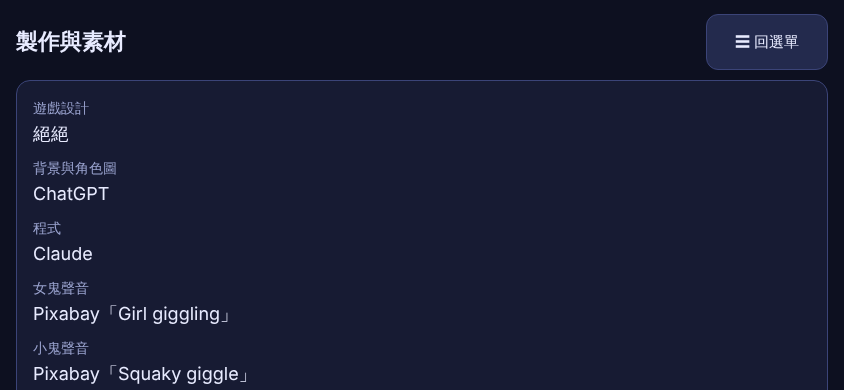
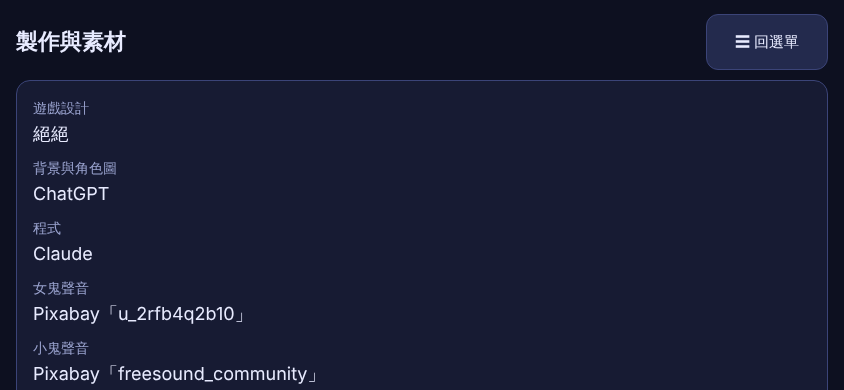
credits: list Pixabay uploaders for the giggles
Claude-Session: https://claude.ai/code/session_01HvGmyWa7LXvU1ABFVyqn8L

Changed region(s): [[0.1232, 0.9231, 0.3697, 0.9846], [0.1232, 0.7692, 0.2773, 0.8308]]

diff --git a/tests/e2e-menu.js b/tests/e2e-menu.js
@@ -136,7 +136,7 @@ const T = {
     text: document.body.textContent,
     noHScroll: document.documentElement.scrollWidth <= window.innerWidth,
   }));
-  ok(JSON.stringify(cr.rows) === JSON.stringify(['遊戲設計：絕絕', '背景與角色圖：ChatGPT', '程式：Claude', '女鬼聲音：Pixabay「Girl giggling」', '小鬼聲音：Pixabay「Squaky giggle」', '其他音效：程式合成']), '製作與素材：文字照定稿', cr.rows);
+  ok(JSON.stringify(cr.rows) === JSON.stringify(['遊戲設計：絕絕', '背景與角色圖：ChatGPT', '程式：Claude', '女鬼聲音：Pixabay「u_2rfb4q2b10」', '小鬼聲音：Pixabay「freesound_community」', '其他音效：程式合成']), '製作與素材：文字照定稿', cr.rows);
   ok(JSON.stringify(cr.links) === '["index.html"]', '製作與素材：除了回選單沒有其他連結', cr.links);
   ok(/☰ 回選單/.test(cr.text) && cr.btn >= 44, '製作與素材：「☰ 回選單」≥ 44 px', cr.btn);
   ok(cr.noHScroll, '製作與素材：橫向手機沒有橫向捲動');

diff --git a/prototype/credits.html b/prototype/credits.html
@@ -36,8 +36,8 @@
     <dt>遊戲設計</dt><dd>絕絕</dd>
     <dt>背景與角色圖</dt><dd>ChatGPT</dd>
     <dt>程式</dt><dd>Claude</dd>
-    <dt>女鬼聲音</dt><dd>Pixabay「Girl giggling」</dd>
-    <dt>小鬼聲音</dt><dd>Pixabay「Squaky giggle」</dd>
+    <dt>女鬼聲音</dt><dd>Pixabay「u_2rfb4q2b10」</dd>
+    <dt>小鬼聲音</dt><dd>Pixabay「freesound_community」</dd>
     <dt>其他音效</dt><dd>程式合成</dd>
   </dl>
 </main>

diff --git a/PROJECT.md b/PROJECT.md
@@ -132,7 +132,7 @@
 - **正式美術圖已換上（2026-11-19）**：原圖在 `docs/concepts/古堡外觀.png`、`信件.png`、`圓盤.png`、`雜魚00～08.png`（雜魚09 使用者說不用）。轉成手機用的 webp：`plane-mirror/assets/story-castle.webp`、`story-letter.webp`（信件圖＋圓盤合成，照劇本「圓盤壓在信件上面」）、`story-disc.webp`（對話框小圖）、`shared/art/minion-00～08.webp`（第一關、第二關過關時逃散的小鬼，取代 placeholder）。信上的三句字照舊用 HTML 寫在圖中的信紙上（`story-scene.js` 的 `letterOnArt`）。暫代圖程式保留在 `story-art.js`，圖載不到時才用。
 - **第二關「看凸透鏡」（使用者 2026-11-21）**：①拿掉底下「← 直接看」對照小鬼（鬼裸眼不可見；大小又透露距離），鏡框改成固定撐滿那一欄；②虛像不能標記時寫「成像太遠，無法標記。」（狀態列加「再移動看看。」）；③虛像離透鏡 < 60 cm 時提示「建議標記別處」但**仍可標記**，**只在看透鏡時出現**，看布幕不會；④實像題**維持允許**改看透鏡標記虛像（V1／V4 不變）；⑤虛像題 J、K、L **改短焦距定案**（J 110、K 120、L 170），使用者手機實測 OK；⑥「拉近看」（讓鬼塞滿鏡片）**先不做**；⑦舊的三題虛像題加回來當 **M、N、O**（f 200／220／210，第 4／5／7 格），虛像題共 6 題、全部 15 題；⑧「知道是虛像就猜焦點內的格子」**先不處理**；⑨「看透鏡」時鬼在焦點上或焦點外**照物理畫**：看到清楚、正立的像（像在無限遠或布幕後面），寫「成像太遠，無法標記。」，不再是一團淡光（只有實像題的像落在眼睛前後 25 cm 內才是一團光）。細節見文末「交接點（凸透鏡虛像太小，2026-11-21）」。
 - **第一關地磚貼圖已換上（2026-11-20）**：使用者給的石磚圖存成 `docs/concepts/地磚.png`，遊戲用 `plane-mirror/assets/floor-tile.webp`（512×512）。一格貼一張，用分塊仿射做透視貼圖；直接看、各面鏡子、鏡中鏡各算一次後快取（`app.js` 的 `floorLayer`）。隔一格壓暗（西洋棋盤，鏡中好數格），格線改成磚邊的銅色、細一點。圖載不到就退回程式畫的地板。**還沒在實體手機上看效能**（第一次畫面出現前要多算一下貼圖）。
-- **製作與素材頁（2026-11-21，使用者定稿）**：`prototype/credits.html`，選單最下面有入口。字少、**不放外部連結**、不寫作者名：遊戲設計：絕絕／背景與角色圖：ChatGPT／程式：Claude／女鬼聲音：Pixabay「Girl giggling」／小鬼聲音：Pixabay「Squaky giggle」／其他音效：程式合成。（兩段笑聲出處只記在這裡：「Girl giggling」pixabay.com/sound-effects/people-girl-giggling-492887，上傳者 `u_2rfb4q2b10`；「Squaky giggle」pixabay.com/sound-effects/people-squaky-giggle-47742，上傳者 `freesound_community`，頁面標原作者 Artist：Ceebee90 (Freesound)。使用者 2026-11-21 用本機查到。）
+- **製作與素材頁（2026-11-21，使用者定稿）**：`prototype/credits.html`，選單最下面有入口。字少、**不放外部連結**、音效寫 Pixabay 上傳者帳號：遊戲設計：絕絕／背景與角色圖：ChatGPT／程式：Claude／女鬼聲音：Pixabay「u_2rfb4q2b10」／小鬼聲音：Pixabay「freesound_community」／其他音效：程式合成。（兩段笑聲出處只記在這裡：「Girl giggling」pixabay.com/sound-effects/people-girl-giggling-492887，上傳者 `u_2rfb4q2b10`；「Squaky giggle」pixabay.com/sound-effects/people-squaky-giggle-47742，上傳者 `freesound_community`，頁面標原作者 Artist：Ceebee90 (Freesound)。使用者 2026-11-21 用本機查到。）
 
 ## DO NOT RE-DERIVE
 
@@ -211,7 +211,7 @@
 13. ~~第一關等使用者試玩後決定~~（2026-11-17 使用者都已回覆，見 CONFIRMED；以下保留原題目）（`docs/prototype-findings-mirror.md`）：選格黃框與法陣不出現在鏡子裡可以嗎（ISSUE 5）；鬼的像在正面鏡裡沒有左右相反要不要調整（ISSUE 6）；鏡中要不要畫玩家自己的剪影（ISSUE 7）；鏡中鏡的第二個像要不要留（ISSUE 8）；台詞（第 13 點）；背景圖要不要重畫成落地鏡、玩家站近一點（ISSUE 1～3）。
 
 ---
-28. ~~製作與素材頁的署名~~ 2026-11-21 使用者定稿（見 CONFIRMED）。Pixabay 作者名 2026-11-21 使用者查到（記在 CONFIRMED「製作與素材頁」）；使用者把音效拆成「女鬼聲音」「小鬼聲音」兩行；作者名目前沒放上頁面。
+28. ~~製作與素材頁的署名~~ 2026-11-21 使用者定稿（見 CONFIRMED）。Pixabay 作者名 2026-11-21 使用者查到（記在 CONFIRMED「製作與素材頁」）；使用者把音效拆成「女鬼聲音」「小鬼聲音」兩行；使用者 2026-11-21 定：寫上傳者帳號（不寫音效標題、不寫原作者 Ceebee90）。
 
 ## NOW — Sprint 01
 
